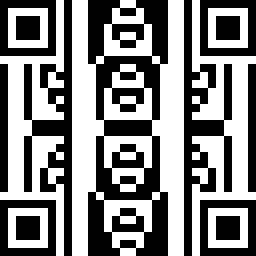
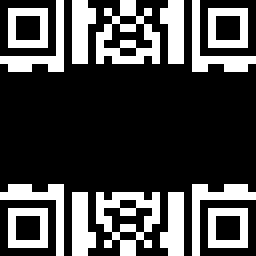
transpose matrix

diff --git a/src/main.c b/src/main.c
@@ -15,6 +15,7 @@ int messageToBinary(blocks **b, char *message);
 bool ** initALcode(int ALsize, blocks **b, int bsize);
 void printMatrix(bool **matrix, int size);
 void printBlocks(blocks **b, int size);
+bool ** transpose(bool **matrix, int size);
 void matrixToImage(Imagem *ALCimg, bool **ALCmatrix);
 
 int main () {
@@ -23,12 +24,14 @@ int main () {
 	char *nomeP = {"../resultados/ALCPic.png"};
 	blocks *binaryMessage;
 	int bsize;
-	bsize = messageToBinary(&binaryMessage, "abcdefghijklmnopqrstuvwxyz");
+	bsize = messageToBinary(&binaryMessage, "aurelinks");
 	Imagem *ALCimg, *ALCpic;
 	
 	int ALsize = 16;
 	bool **ALcode = initALcode(ALsize, &binaryMessage, bsize);
 	printMatrix(ALcode, ALsize);
+	printf("\n");
+	printMatrix(transpose(ALcode, ALsize), ALsize);
 
 	ALCimg = abreImagem(nome, 1);
 	ALCimg = criaImagem(2*ALsize, 2*ALsize, 1);
@@ -116,21 +119,33 @@ bool ** initALcode(int ALsize, blocks **b, int bsize) {
 	}
 
 	for(int i = 0; i < 8; i += 1) {
-		for(int j = 0; j < 8; j += 1) {
-			matrix[i][j + 8] = ((*b)[i]).binaryValue[j];
+		if(bsize > i) {
+			for(int j = 0; j < 8; j += 1) {
+					matrix[i][j + 8] = ((*b)[i]).binaryValue[j];
+			}
 		}
+		else
+			break;
 	}
 
 	for(int i = 8; i < ALsize; i += 1) {
-		for(int j = 0; j < 8; j += 1) {
-			matrix[i][j] = ((*b)[i]).binaryValue[j];
+		if(bsize > i) {
+			for(int j = 0; j < 8; j += 1) {
+				matrix[i][j] = ((*b)[i]).binaryValue[j];
+			}
 		}
+		else
+			break;
 	}
 
 	for(int i = 8; i < ALsize; i += 1) {
-		for(int j = 0; j < 8; j += 1) {
-			matrix[i][j + 8] = ((*b)[i + 8]).binaryValue[j];
+		if(bsize > i + 8) {
+			for(int j = 0; j < 8; j += 1) {
+				matrix[i][j + 8] = ((*b)[i + 8]).binaryValue[j];
+			}
 		}
+		else
+			break;
 	}
 	
 	return matrix;
@@ -163,6 +178,19 @@ void printBlocks(blocks **b, int size) {
 	}
 	else
 		printf("Erro, os blocos nao existem.");
+}
+
+bool ** transpose(bool **matrix, int size) {
+	bool **transpose = malloc(size * sizeof(bool *));
+	for(int i = 0; i < size; i += 1) transpose[i] = malloc(size * sizeof(bool));
+
+	for(int i = 0; i < size; i += 1) {
+		for(int j = 0; j < size; j += 1) {
+			transpose[j][size - i - 1] = matrix[i][j];
+		}
+	} 
+
+	return transpose;
 }
 
 void matrixToImage(Imagem *ALCimg, bool **ALCmatrix) {
